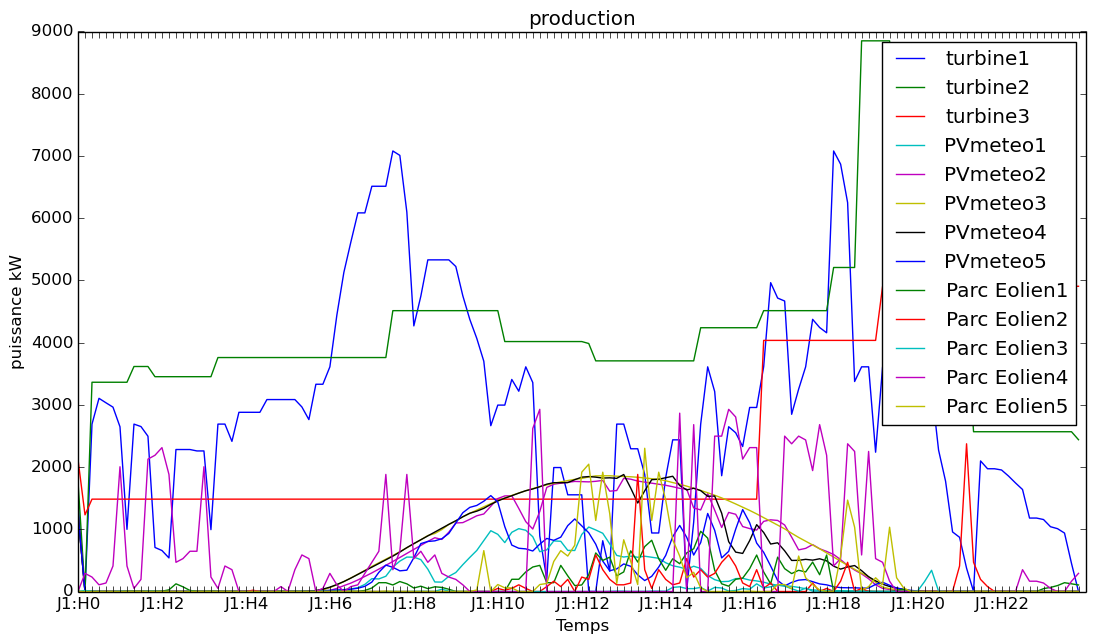
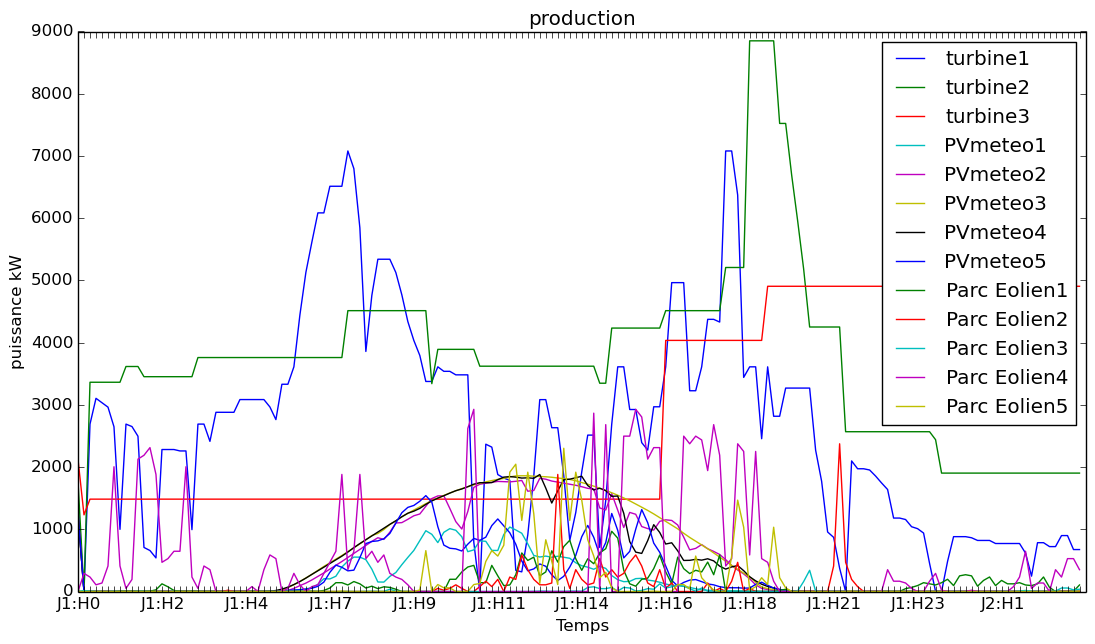
harmonisation des EtatsSuivants()

diff --git a/main.py b/main.py
@@ -206,13 +206,14 @@ while Global.temps < duree-1: #boucle principale
             stock_min = [simulations_stock[i][0] for i in range(len(simulations_stock))] #tous les stockages sont en mode "remplissage maximal"
             while (abs(prod_provisoire-conso_future) > 2./100.*conso_future and prod_provisoire > conso_future and abs(sum(consigne_stock)-sum(stock_min)) >= 10.**(-3)):
                 ind = ind_eqpascher2(simulations_stock,consigne_stock) #stockage le moins cher à remplir
+                print "stockage en cours"
                 if ind < len(ville.equipStockage):
                     equip = ville.equipStockage[ind]
                     
-                    ind_boucle6 = len(ville.equipStockage)
-                    while (abs(prod_provisoire-conso_future) > 2./100.*conso_future and prod_provisoire > conso_future and abs(consigne_stock[ind]-stock_min[ind]) >= stock_min[ind]*0.05 and ind_boucle6 > 0):
-                        consigne_stock[ind] -= (equip.activite - simulations_stock[ind][0])/10.
-                        prod_provisoire -= (equip.activite - simulations_stock[ind][0])/100./10.*equip.PROD_MAX
+                    ind_boucle6 = len(ville.equipStockage)*10
+                    while (abs(prod_provisoire-conso_future) > 2./100.*conso_future and prod_provisoire > conso_future and abs(consigne_stock[ind]-stock_min[ind]) >= stock_min[ind]*0.005 and ind_boucle6 > 0):
+                        consigne_stock[ind] -= (equip.activite - simulations_stock[ind][0])/100.
+                        prod_provisoire -= (equip.activite - simulations_stock[ind][0])/100./100.*equip.PROD_MAX
                         ind_boucle6 -= 1
                 else:
                     print "indice stockage récupéré par ind_pascher trop grand"

diff --git a/Equipement/Hopital.py b/Equipement/Hopital.py
@@ -42,19 +42,19 @@ class Hopital(Equipement):
     def etatSuivant(self, consigne=0., effacement=0.):
         if effacement == 0. :
             self.effacement = 0.
-            self.activite = self.production[Global.temps]
+            self.activite = self.production[Global.temps+1]
             self.temps_effa = 0
             self.temps_dernier_effa += 1
         else:
             if (self.temps_effa>=3 or 0<self.temps_dernier_effa<18):
                 self.effacement = 0.
-                self.activite = self.production[Global.temps]
+                self.activite = self.production[Global.temps+1]
                 self.temps_effa = 0
                 self.temps_dernier_effa += 1
             else:
                 self.temps_effa += 1
                 self.temps_dernier_effa = 0
-                pourcentage=self.production[Global.temps%1008] #% de la production à  l'étape actuelle, >0
+                pourcentage=self.production[(Global.temps+1)%1008] #% de la production à  l'étape actuelle, >0
                 if pourcentage>=-effacement*self.EFFA_MAX/self.PROD_MAX: #ie pourcentage * PROD_MAX <= -eff * EFFA_MAX ie la consommation est plus grande que l'effacement demandÃ©
                     self.effacement=effacement
                     self.activite=pourcentage+effacement*self.EFFA_MAX/self.PROD_MAX

diff --git a/Equipement/ParcTurbineAGaz.py b/Equipement/ParcTurbineAGaz.py
@@ -17,7 +17,7 @@ class ParcTurbineAGaz:
     def prevision(self,consigne=0.,effacement=-1.):
         if consigne==0. and effacement==-1.:
             return (self.activite,(self.varcout*self.activite/100.*self.PROD_MAX*(80./1000./6.)*self.nombre))
-        print "prix turbine: %f"%(1000. + 2.*self.varcout*consigne/100.*self.PROD_MAX*(80./1000./6.)*self.nombre)
+        #print "prix turbine: %f"%(1000. + 2.*self.varcout*consigne/100.*self.PROD_MAX*(80./1000./6.)*self.nombre)
         if consigne > self.activite+1. : #si on veut augmenter la puissance, on place l'activité actuelle sur la courbe de montée en puissance et on en déduit l'état à t+10min, 1. pour les flottants
             if self.activite < 50.: #on suppose que la courbe de charge ne fonctionne qu'au démarrage (ie avant 50%)
                 i=0

diff --git a/Equipement/ParcMagasins.py b/Equipement/ParcMagasins.py
@@ -27,7 +27,7 @@ class ParcMagasins (Utilitaire) : # des commerces de centre ville aux petits sup
         self.etatSuivant() #initialisation de la variable activite selon le moment de la journée ; effacement nul par défaut 
     
     def etatSuivant(self,consigne=0.,effacement=0.):
-        pourcentage=self.production[Global.temps] #% de la production à l'étape actuelle, >0
+        pourcentage=self.production[Global.temps+1] #% de la production à l'étape actuelle, >0
         if pourcentage>=-effacement*self.EFFA_MAX/self.PROD_MAX: #ie pourcentage * PROD_MAX <= -eff * EFFA_MAX ie la consommation est plus grande que l'effacement demandé
             self.effacement=effacement
             self.activite=pourcentage+effacement*self.EFFA_MAX/self.PROD_MAX #maj de l'activité

diff --git a/Equipement/ParcSolaire.py b/Equipement/ParcSolaire.py
@@ -33,7 +33,7 @@ class ParcSolaire(Equipement):
         
     def etatSuivant(self, consigne, effacement):
         """consignes et effacement en %"""
-        self.activite = self.calculActivite(Global.temps)
+        self.activite = self.calculActivite(Global.temps+1)
         
     def contraintes(self, consigne, effacement):
         """consignes et effacement en %
@@ -44,7 +44,6 @@ class ParcSolaire(Equipement):
             return False
     
     def calculActivite(self,temps):
-        """formule de test, lien avec les données météo à faire"""
         return (self.meteoliss[temps])/1000.*80./100.*100. #loi de murphy, on a env. 80% de la production imaginée, on divise par 1000 W . m-2, intensité de ref
         
 #pour les tests

diff --git a/Equipement/ParcUsine.py b/Equipement/ParcUsine.py
@@ -77,7 +77,7 @@ class ParcUsine38(Equipement):
     
 
     def etatSuivant(self,consigne=0.,effacement=0.):
-        pourcentage=self.production[Global.temps%1008] #% de la production à l'étape actuelle, >0
+        pourcentage=self.production[(Global.temps+1)%1008] #% de la production à l'étape actuelle, >0
         if pourcentage>=-effacement*self.EFFA_MAX/self.PROD_MAX: #ie pourcentage * PROD_MAX <= -eff * EFFA_MAX ie la consommation est plus grande que l'effacement demandÃ©
             self.effacement=effacement
             self.activite=pourcentage+effacement*self.EFFA_MAX/self.PROD_MAX

diff --git a/Equipement/ParcEclairagePublic.py b/Equipement/ParcEclairagePublic.py
@@ -21,7 +21,7 @@ class ParcEclairagePublic (Utilitaire) :
         self.etatSuivant() #initialisation de la variable activite selon le moment de la journée ; effacement nul par défaut
     
     def etatSuivant(self,consigne=0.,effacement=0.):
-        pourcentage=self.production[Global.temps]
+        pourcentage=self.production[Global.temps+1]
         if pourcentage>=-effacement*self.EFFA_MAX/self.PROD_MAX:
             self.effacement=effacement
             self.activite=pourcentage+effacement*self.EFFA_MAX/self.PROD_MAX

diff --git a/Utilitaire/BaseDeDonnees.py b/Utilitaire/BaseDeDonnees.py
@@ -68,7 +68,7 @@ class BaseDeDonnees:
             sql = """INSERT INTO consigne (t, IDObjet, consigne, numTest)
                      VALUES (%s, %s, %s, %s)"""
             try:
-                self.cur.execute(sql, (Global.temps-1, IDObjet, equipement, numTest))
+                self.cur.execute(sql, (Global.temps, IDObjet, equipement, numTest))
                 self.database.commit()
                 #print sql % (Global.temps, IDObjet, equipement, numTest)
                 IDObjet += 1

diff --git a/Equipement/Stockage.py b/Equipement/Stockage.py
@@ -2,7 +2,7 @@
 from Equipement import Equipement
 class Stockage(Equipement):
 
-	def __init__(self,nom="Stockage", capacite = 10000., prop = 1./2., cout=2., prod = 20.):
+	def __init__(self,nom="Stockage", capacite = 100000., prop = 1./2., cout=2., prod = 2.):
 		self.capacite = capacite
 		self.reste = self.capacite*prop #pas un pourcentage
 		self.cout = cout

diff --git a/Equipement/ParcEolien.py b/Equipement/ParcEolien.py
@@ -73,7 +73,6 @@ class ParcEolien():
 		else:
 			self.nbEolienne =self.nbEolienneMax
 		self.activite = self.prevision()[0]
-		return ""
 		
 	def contrainte(self):
 		return True
